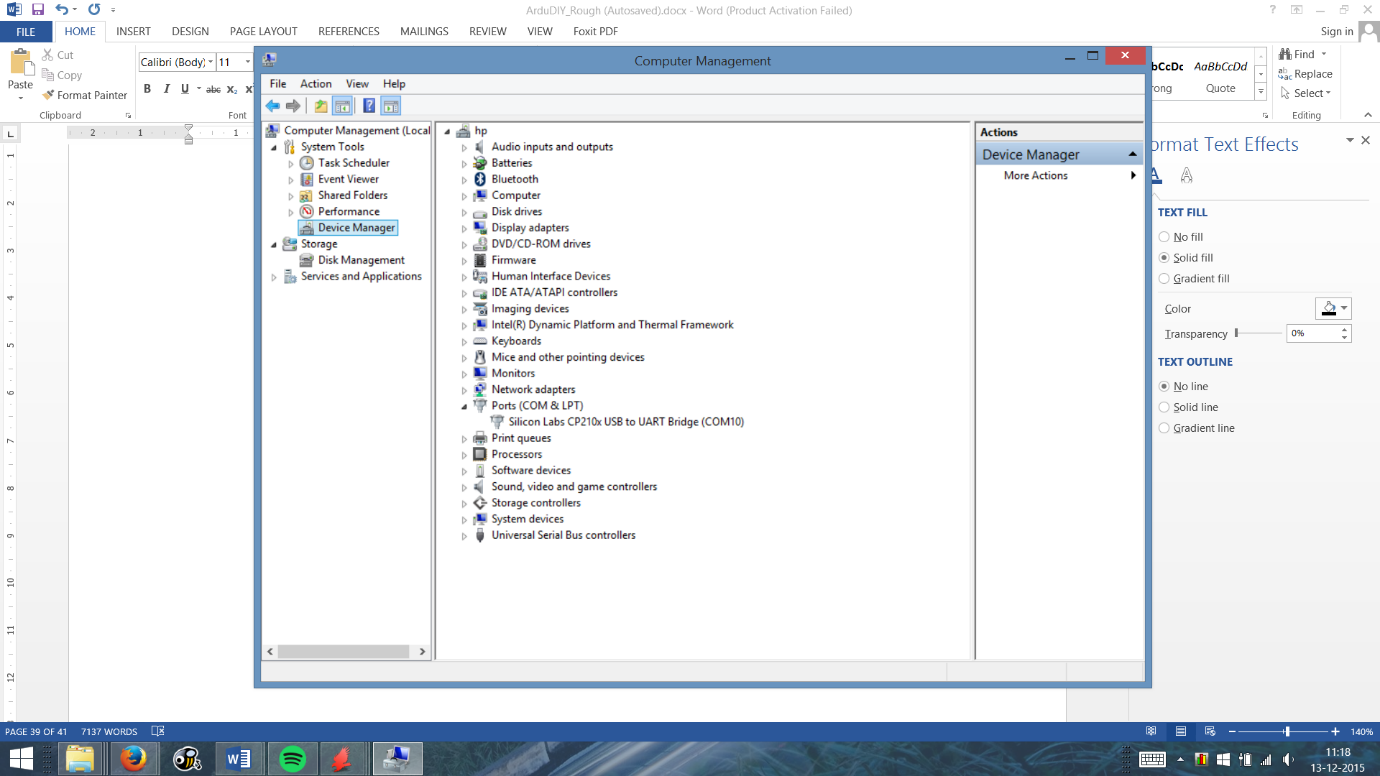
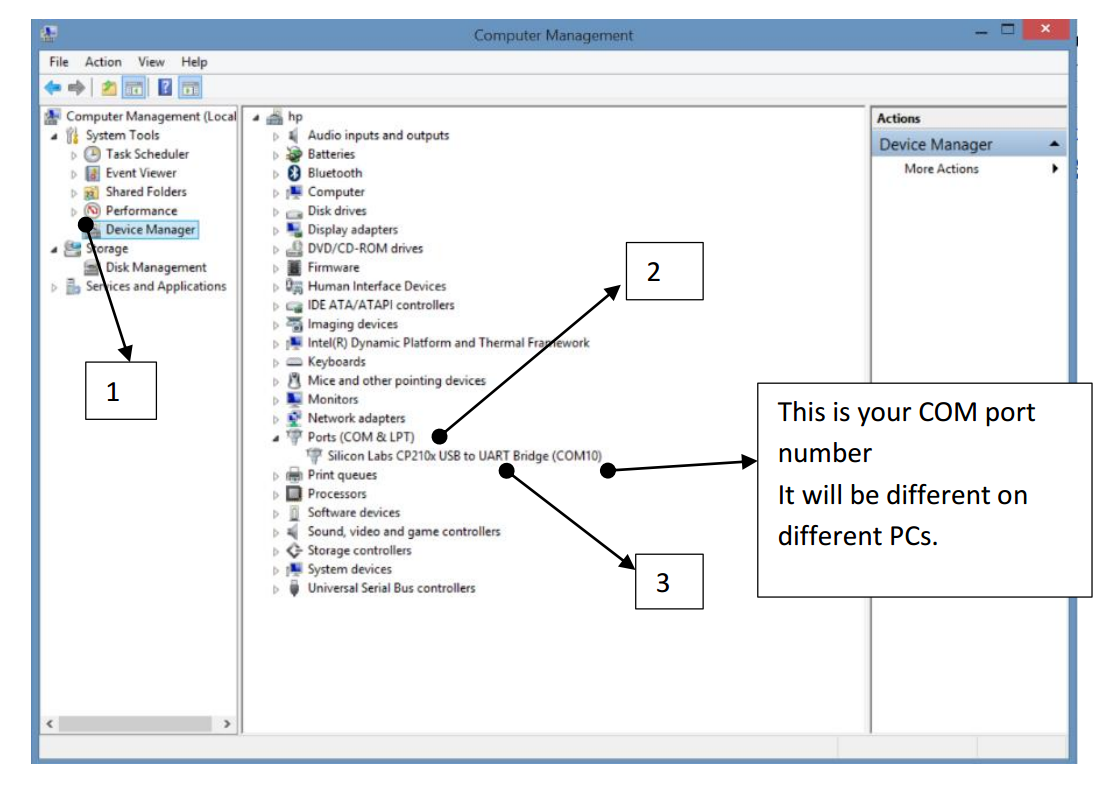
Track 6 files into repository.
- modified assets/picture_158.png
- modified assets/picture_167.png
- modified assets/picture_170.png
- modified assets/picture_173.png
- untracked assets/picture_176.png
- modified software_&_programming/README.md

Auto commit by GitBook Editor

diff --git a/software_&_programming/README.md b/software_&_programming/README.md
@@ -4,19 +4,13 @@ Before we begin you shall need to install two things. Firstly the Arduino IDE an
 
 You can get the latest Arduino Software at [www.arduino.cc](http://www.arduino.cc) On their homepage select the download tab. At the time of writing this Arduino 1.6.6 was the latest version, though all higher versions will also work. Preferably use the Arduino Installer and not the ZIP file. It makes things easier. Once you have downloaded, install Arduino.
 
-![](../assets/picture_156.png)Now we install the drivers for our software board. The converter IC on the board is CP2102\. It is manufactured by Silicon Labs, we can obtain the drivers from their website. Just Google “CP2102 driver” It should probably be the first link. This is the full link. [https://www.silabs.com/products/mcu/Pages/USBtoUARTBridgeVCPDrivers.aspx](https://www.silabs.com/products/mcu/Pages/USBtoUARTBridgeVCPDrivers.aspx)The download page looks like this. Download the Drivers and install them.
+![](../assets/picture_156.png)
+
+Now we install the drivers for our software board. The converter IC on the board is CP2102\. It is manufactured by Silicon Labs, we can obtain the drivers from their website. Just Google “CP2102 driver” It should probably be the first link. This is the full link. [https://www.silabs.com/products/mcu/Pages/USBtoUARTBridgeVCPDrivers.aspx](https://www.silabs.com/products/mcu/Pages/USBtoUARTBridgeVCPDrivers.aspx)The download page looks like this. Download the Drivers and install them.
 
 Once you have installed the drivers you can plug in the converter board into your USB port.You will get a notification and the PC will auto detect. Now we have to know which COM port has been assigned to our converter board.(Basically how this works is that for any I/O device we connect to our PC, Windows assigns it a COM port number. To use this port we have to know the COM port number. )
 
 To view the COM port on Windows 7 and above. First plug in the Converter Board into the USB. Then right click on “My Computer” and click on “Manage”.Then click on “Device Manager” on the left. After then click on “Ports (COM &amp; LPT)” on the list that appears on the right.You will see the connected converter board along with the COM port name in brackets.If “Silicon Labs CP210x USB to UART Bridge” cannot be seen here the drivers have not installed properly.
-
-This is your COM port numberIt will be different on different PCs.
-
-1
-
-3
-
-2
 
 ![](../assets/picture_158.png)
 
@@ -26,17 +20,9 @@ Go to Tools -&gt; Board -&gt; And select Arduino Duemilanove or Diecimila
 
 ![](../assets/picture_167.png)
 
-Select This.
-
-Select This.
-
 Now go to Tools -&gt; Processor and select ATmega328
 
 ![](../assets/picture_170.png)
-
-Select This.
-
-Select This.
 
 Lastly go to Tools -&gt; Port -&gt; Now select the COM port of our converter board. The Converter board must be plugged in before doing this!
 
@@ -50,14 +36,13 @@ Now Connect the Convert Board to our Arduino Board. We use the given Relimate Wi
 
 Basically the flap on the Relimate should be downwards.
 
-![](../assets/picture_176.jpg)G:\data1\ArduDIY\Images\splabcomponents\DSC_1256-1.jpg![](../assets/picture_177.jpg)G:\data1\ArduDIY\Images\splabcomponents\DSC_1263-1.jpg
+![](../assets/picture_176.png)
 
-Flap
 
-![](../assets/picture_222.jpg)G:\data1\ArduDIY\Images\CP2102_wiring.jpg
+
 
 Once you have connected the Relimate, the whole arrangement should look like this:
 
-![](../assets/picture_234.jpg)G:\data1\ArduDIY\Images\attachments_new\DSC_1561.JPG
+![](../assets/picture_234.jpg)
 
 Just a little tip: when you want to remove the Relimate wire from the Arduino board, do not just pull it out. Doing that will reduce the life of your Relimate. The proper method to remove the Relimate is using your finger pull the Relimate in the direction of the flap while pulling it upwards. It should easily come off this way.
